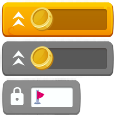
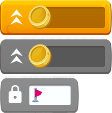
laboratory ui

diff --git a/src/css/main.less b/src/css/main.less
@@ -9,8 +9,30 @@ content {
 	right: 0;
 	bottom: 0;
 	border-radius: inherit;
-	font-family: "Changa One";
+	font-family: "Bakbak One";
 	font-size: 26px;
+
+	h1, h2, h3, h4 {
+		font-weight: 400;
+		text-align: center;
+		text-transform: uppercase;
+		letter-spacing: -.5px;
+	}
+
+	&[data-dialog] {
+		color: #004bad;
+
+		h2 {
+			color: #006eeb;
+			font-size: 28px;
+			text-shadow: 0 1px 0 #fffa;
+		}
+
+		h3 {
+			font-size: 19px;
+			text-shadow: 0 1px 0 #fff6;
+		}
+	}
 
 	&[data-show="start"] {
 		> div[data-area="start"] { display: block; }
@@ -257,10 +279,200 @@ content {
 				background: url(~/gfx/laboratorybg-sheet0.png) 50% 50% no-repeat;
 				position: absolute;
 				top: 67px;
-				left: 59px;
+				left: 60px;
 				width: 360px;
 				height: 636px;
+
+				.dlg-exit-button {
+					top: 57px;
+				}
+
+				h2 {
+					position: absolute;
+					top: 114px;
+					left: 40px;
+					right: 40px;
+				}
+
+				h3 {
+					margin: 5px 0;
+				}
+
+				.info {
+					background: #2222;
+					position: relative;
+					display: block;
+					width: 190px;
+					height: 28px;
+					margin: 3px auto;
+					box-shadow: inset 0 2px 2px #0004;
+					border-radius: 2px;
+					padding: 4px 0 0 37px;
+					color: #fff;
+					font-size: 19px;
+					text-shadow: 0 1px 1px #f00a,
+								0 -1px 1px #f00a,
+								1px 0 1px #f00a,
+								-1px 0 1px #f00a;
+
+					&:before {
+						content: "";
+						background: url(~/gfx/attsprite-sheet0.png) 50% 50%/contain no-repeat;
+						position: absolute;
+						top: 3px;
+						left: 5px;
+						width: 24px;
+						height: 24px;
+					}
+
+					.price {
+						background: url(~/gfx/academybtn-sheet0.png) 50% 50% no-repeat;
+						background-position: 0 -35px;
+						background-size: 100% auto;
+						position: absolute;
+						top: -1px;
+						left: 94px;
+						width: 98px;
+						height: 32px;
+						font-size: 18px;
+						text-shadow: 0 1px 1px #000a,
+									0 -1px 1px #000a,
+									1px 0 1px #000a,
+									-1px 0 1px #000a;
+						padding: 6px 0 0 49px;
+						filter: drop-shadow(0 0 1px #0007);
+
+						&.active {
+							background-position: 0 0;
+							cursor: pointer;
+						}
+					}
+				}
 			}
+
+			.ammo {
+				// background: #0001;
+				position: absolute;
+				top: 231px;
+				left: 72px;
+				width: 220px;
+				height: 219px;
+
+				i {
+					background: #0001;
+					position: absolute;
+					top: -13px;
+					left: -12px;
+					width: 15px;
+					height: 15px;
+					// frontline
+					&:nth-child(1) { top: 5px; left: 3px; }
+					&:nth-child(2) { top: 5px; left: 36px; }
+					&:nth-child(3) { top: 5px; left: 68px; }
+					&:nth-child(4) { top: 5px; left: 100px; }
+					&:nth-child(5) { top: 5px; left: 133px; }
+					&:nth-child(6) { top: 5px; left: 165px; }
+					&:nth-child(7) { top: 5px; left: 197px; }
+
+					&:nth-child(8) { top: 44px; left: 19px; }
+					&:nth-child(9) { top: 44px; left: 52px; }
+					&:nth-child(10) { top: 44px; left: 84px; }
+					&:nth-child(11) { top: 44px; left: 116px; }
+					&:nth-child(12) { top: 44px; left: 149px; }
+					&:nth-child(13) { top: 44px; left: 181px; }
+
+					&:nth-child(14) { top: 83px; left: 3px; }
+					&:nth-child(15) { top: 83px; left: 36px; }
+					&:nth-child(16) { top: 83px; left: 68px; }
+					&:nth-child(17) { top: 83px; left: 100px; }
+					&:nth-child(18) { top: 83px; left: 133px; }
+					&:nth-child(19) { top: 83px; left: 165px; }
+					&:nth-child(20) { top: 83px; left: 197px; }
+
+					// backline
+					&:nth-child(21) { top: 122px; left: 3px; }
+					&:nth-child(22) { top: 122px; left: 36px; }
+					&:nth-child(23) { top: 122px; left: 68px; }
+					&:nth-child(24) { top: 122px; left: 100px; }
+					&:nth-child(25) { top: 122px; left: 133px; }
+					&:nth-child(26) { top: 122px; left: 165px; }
+					&:nth-child(27) { top: 122px; left: 197px; }
+
+					&:nth-child(28) { top: 160px; left: 19px; }
+					&:nth-child(29) { top: 160px; left: 52px; }
+					&:nth-child(30) { top: 160px; left: 84px; }
+					&:nth-child(31) { top: 160px; left: 116px; }
+					&:nth-child(32) { top: 160px; left: 149px; }
+					&:nth-child(33) { top: 160px; left: 181px; }
+
+					&:nth-child(34) { top: 200px; left: 3px; }
+					&:nth-child(35) { top: 200px; left: 36px; }
+					&:nth-child(36) { top: 200px; left: 68px; }
+					&:nth-child(37) { top: 200px; left: 100px; }
+					&:nth-child(38) { top: 200px; left: 133px; }
+					&:nth-child(39) { top: 200px; left: 165px; }
+					&:nth-child(40) { top: 200px; left: 197px; }
+				}
+			}
+
+			.frontline {
+				position: absolute;
+				top: 161px;
+				left: 40px;
+				right: 40px;
+			}
+
+			.backline {
+				position: absolute;
+				top: 463px;
+				left: 40px;
+				right: 40px;
+			}
+
+			.total {
+				position: absolute;
+				top: 542px;
+				left: 40px;
+				right: 40px;
+				text-align: center;
+
+				h3 {
+					display: inline-block;
+				}
+
+				span {
+					display: inline-block;
+					position: relative;
+					top: 1px;
+					padding-left: 26px;
+					color: #fff;
+					font-size: 26px;
+					text-shadow: 0 1px 1px #f00a,
+								0 -1px 1px #f00a,
+								1px 0 1px #f00a,
+								-1px 0 1px #f00a;
+
+					&:before {
+						content: "";
+						background: url(~/gfx/attsprite-sheet0.png) 50% 50%/contain no-repeat;
+						position: absolute;
+						top: 1px;
+						left: 0px;
+						width: 24px;
+						height: 24px;
+					}
+				}
+			}
+		}
+
+		.dlg-exit-button {
+			background: url(~/gfx/exitbtn-sheet0.png) 50% 50% no-repeat;
+			position: absolute;
+			top: 13px;
+			right: 21px;
+			width: 49px;
+			height: 24px;
+			cursor: pointer;
 		}
 
 		.btn-ok {
@@ -376,10 +588,10 @@ content {
 
 
 @font-face {
-	font-family: "Changa One";
+	font-family: "Bakbak One";
 	font-style: normal;
 	font-weight: 400;
 	font-display: swap;
-	src: url(~/fonts/Changa-One.woff2) format("woff2");
+	src: url(~/fonts/Bakbak-One.woff2) format("woff2");
 	unicode-range: U+0000-00FF, U+0131, U+0152-0153, U+02BB-02BC, U+02C6, U+02DA, U+02DC, U+0304, U+0308, U+0329, U+2000-206F, U+20AC, U+2122, U+2191, U+2193, U+2212, U+2215, U+FEFF, U+FFFD;
 }

diff --git a/src/partials/content.htm b/src/partials/content.htm
@@ -38,7 +38,32 @@
 	<!-- laboratory view -->
 	<div data-area="laboratory">
 		<div class="bg-laboratory">
-			<div class="btn-ok"></div>
+			<div class="dlg-exit-button"></div>
+			<h2>Laboratory</h2>
+			<div class="frontline">
+				<h3>Upgrade Frontline</h3>
+				<div class="info">
+					<span class="value">36</span>
+					<span class="price">510</span>
+				</div>
+			</div>
+			<div class="ammo">
+				<!-- frontline -->
+				<i></i><i></i><i></i><i></i><i></i><i></i><i></i><i></i><i></i><i></i><i></i><i></i><i></i><i></i><i></i><i></i><i></i><i></i><i></i><i></i>
+				<!-- backline -->
+				<i></i><i></i><i></i><i></i><i></i><i></i><i></i><i></i><i></i><i></i><i></i><i></i><i></i><i></i><i></i><i></i><i></i><i></i><i></i><i></i>
+			</div>
+			<div class="backline">
+				<div class="info">
+					<span class="value">36</span>
+					<span class="price active">510</span>
+				</div>
+				<h3>Upgrade Backline</h3>
+			</div>
+			<div class="total">
+				<h3>Total Damage</h3>
+				<span>69</span>
+			</div>
 		</div>
 	</div>
 
